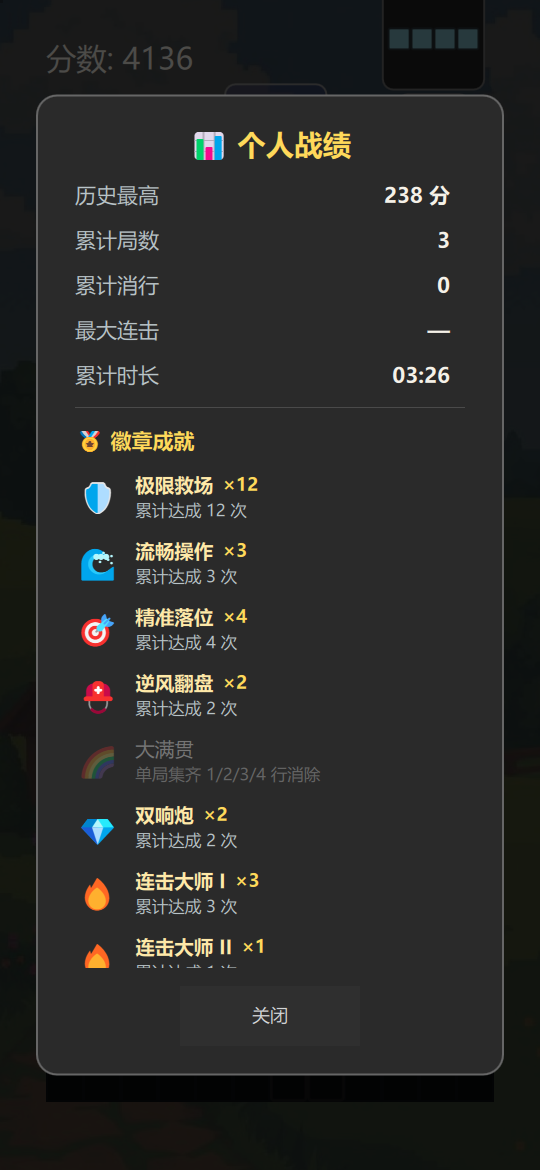
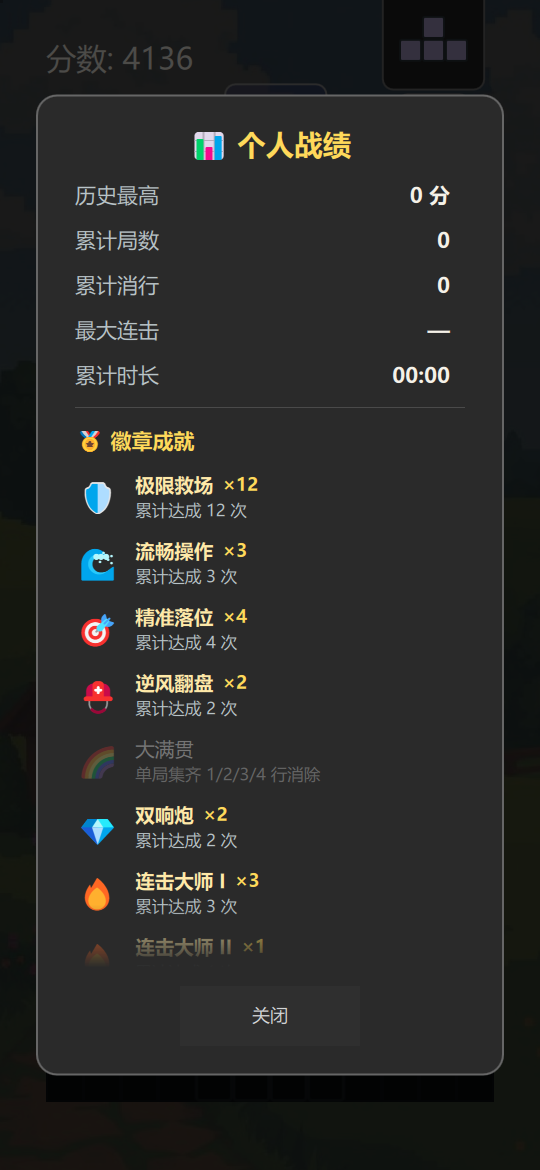
滚动引导（用户反馈：可下滑但无引导）：战绩页徽章列表 ScrollView→Flickable+底部渐隐(还有未展示徽章时显示)+打开时contentY弹跳一次物理演示可滚；暂停菜单 settingsFlick 同款底部渐隐(矮屏裁切行不再静默消失)；补丁v40

diff --git a/Main.qml b/Main.qml
@@ -4391,18 +4391,22 @@ ApplicationWindow {
                     font.bold: true
                 }
 
-                ScrollView {
+                Item {
                     width: parent.width
                     height: 330
-                    contentWidth: width
-                    contentHeight: badgeListCol.implicitHeight
-                    clip: true
-                    ScrollBar.horizontal.policy: ScrollBar.AlwaysOff
 
-                    Column {
-                        id: badgeListCol
-                        width: parent.width
-                        spacing: 12
+                    Flickable {
+                        id: badgeScroll
+                        anchors.fill: parent
+                        contentWidth: width
+                        contentHeight: badgeListCol.implicitHeight
+                        clip: true
+                        boundsBehavior: Flickable.StopAtBounds
+
+                        Column {
+                            id: badgeListCol
+                            width: parent.width
+                            spacing: 12
 
                         Repeater {
                             model: root.badgeOrder
@@ -4448,6 +4452,39 @@ ApplicationWindow {
                             }
                         }
                     }
+                    }
+
+                    onVisibleChanged: {
+                        if (visible) {
+                            badgeScroll.contentY = 0
+                            badgeScrollHintTimer.restart()
+                        }
+                    }
+
+                    // 底部渐隐：还有未展示的徽章时的滚动引导（视口层，不随内容滚动）
+                    Rectangle {
+                        anchors.bottom: parent.bottom
+                        width: parent.width
+                        height: 42
+                        enabled: false
+                        visible: badgeScroll.contentHeight > badgeScroll.height + 4
+                                 && badgeScroll.contentY + badgeScroll.height < badgeScroll.contentHeight - 4
+                        gradient: Gradient {
+                            GradientStop { position: 0.0; color: "#002a2a2a" }
+                            GradientStop { position: 1.0; color: "#ff2a2a2a" }
+                        }
+                    }
+                }
+
+                Timer {
+                    id: badgeScrollHintTimer
+                    interval: 250
+                    onTriggered: if (badgeScroll.contentHeight > badgeScroll.height + 4) badgeScrollHint.restart()
+                }
+                SequentialAnimation {
+                    id: badgeScrollHint
+                    NumberAnimation { target: badgeScroll; property: "contentY"; to: 64; duration: 240; easing.type: Easing.OutQuad }
+                    NumberAnimation { target: badgeScroll; property: "contentY"; to: 0; duration: 240; easing.type: Easing.OutQuad }
                 }
 
                 Button {
@@ -4729,11 +4766,26 @@ ApplicationWindow {
                 id: settingsFlick
                 anchors.fill: parent
                 anchors.margins: 12
+                anchors.bottomMargin: 16
                 contentWidth: width
                 contentHeight: settingsColumn.height
                 boundsBehavior: Flickable.StopAtBounds
                 flickableDirection: Flickable.VerticalFlick
                 clip: true
+
+                // 底部渐隐：提示「下面还有设置项」可下滑
+                Rectangle {
+                    anchors.bottom: parent.bottom
+                    width: parent.width
+                    height: 40
+                    enabled: false
+                    visible: settingsFlick.contentHeight > settingsFlick.height + 4
+                             && settingsFlick.contentY + settingsFlick.height < settingsFlick.contentHeight - 4
+                    gradient: Gradient {
+                        GradientStop { position: 0.0; color: "#002a2a2a" }
+                        GradientStop { position: 1.0; color: "#ff2a2a2a" }
+                    }
+                }
 
             Column {
                 id: settingsColumn

diff --git a/leaderboard/apk/patch/Main.qml b/leaderboard/apk/patch/Main.qml
@@ -4391,18 +4391,22 @@ ApplicationWindow {
                     font.bold: true
                 }
 
-                ScrollView {
+                Item {
                     width: parent.width
                     height: 330
-                    contentWidth: width
-                    contentHeight: badgeListCol.implicitHeight
-                    clip: true
-                    ScrollBar.horizontal.policy: ScrollBar.AlwaysOff
 
-                    Column {
-                        id: badgeListCol
-                        width: parent.width
-                        spacing: 12
+                    Flickable {
+                        id: badgeScroll
+                        anchors.fill: parent
+                        contentWidth: width
+                        contentHeight: badgeListCol.implicitHeight
+                        clip: true
+                        boundsBehavior: Flickable.StopAtBounds
+
+                        Column {
+                            id: badgeListCol
+                            width: parent.width
+                            spacing: 12
 
                         Repeater {
                             model: root.badgeOrder
@@ -4448,6 +4452,39 @@ ApplicationWindow {
                             }
                         }
                     }
+                    }
+
+                    onVisibleChanged: {
+                        if (visible) {
+                            badgeScroll.contentY = 0
+                            badgeScrollHintTimer.restart()
+                        }
+                    }
+
+                    // 底部渐隐：还有未展示的徽章时的滚动引导（视口层，不随内容滚动）
+                    Rectangle {
+                        anchors.bottom: parent.bottom
+                        width: parent.width
+                        height: 42
+                        enabled: false
+                        visible: badgeScroll.contentHeight > badgeScroll.height + 4
+                                 && badgeScroll.contentY + badgeScroll.height < badgeScroll.contentHeight - 4
+                        gradient: Gradient {
+                            GradientStop { position: 0.0; color: "#002a2a2a" }
+                            GradientStop { position: 1.0; color: "#ff2a2a2a" }
+                        }
+                    }
+                }
+
+                Timer {
+                    id: badgeScrollHintTimer
+                    interval: 250
+                    onTriggered: if (badgeScroll.contentHeight > badgeScroll.height + 4) badgeScrollHint.restart()
+                }
+                SequentialAnimation {
+                    id: badgeScrollHint
+                    NumberAnimation { target: badgeScroll; property: "contentY"; to: 64; duration: 240; easing.type: Easing.OutQuad }
+                    NumberAnimation { target: badgeScroll; property: "contentY"; to: 0; duration: 240; easing.type: Easing.OutQuad }
                 }
 
                 Button {
@@ -4729,11 +4766,26 @@ ApplicationWindow {
                 id: settingsFlick
                 anchors.fill: parent
                 anchors.margins: 12
+                anchors.bottomMargin: 16
                 contentWidth: width
                 contentHeight: settingsColumn.height
                 boundsBehavior: Flickable.StopAtBounds
                 flickableDirection: Flickable.VerticalFlick
                 clip: true
+
+                // 底部渐隐：提示「下面还有设置项」可下滑
+                Rectangle {
+                    anchors.bottom: parent.bottom
+                    width: parent.width
+                    height: 40
+                    enabled: false
+                    visible: settingsFlick.contentHeight > settingsFlick.height + 4
+                             && settingsFlick.contentY + settingsFlick.height < settingsFlick.contentHeight - 4
+                    gradient: Gradient {
+                        GradientStop { position: 0.0; color: "#002a2a2a" }
+                        GradientStop { position: 1.0; color: "#ff2a2a2a" }
+                    }
+                }
 
             Column {
                 id: settingsColumn
